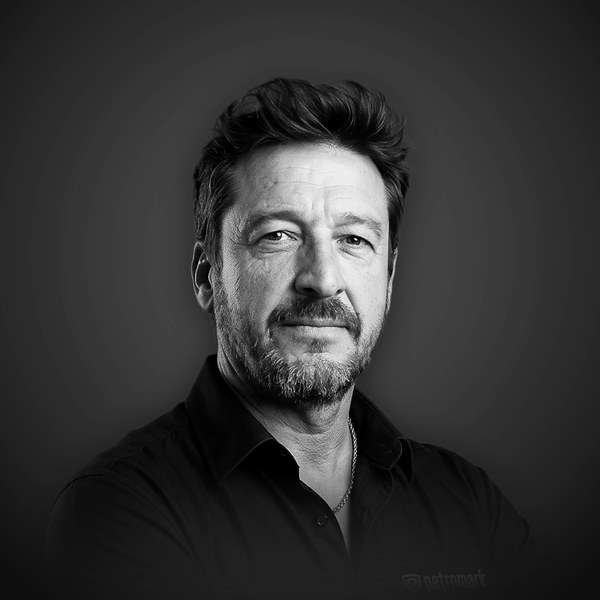
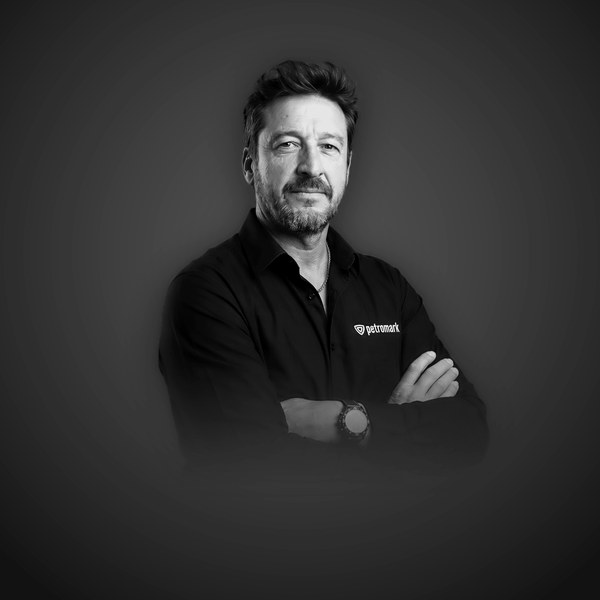
Fotos de Emilio Canullo y Gonzalo Gimenez en plano medio
fotos.py: encuadre global más abierto (ZOOM 6.0), sin ajustes por persona.

Changed region(s): [[0.12, 0.09, 0.84, 0.9]]

diff --git a/fotos.py b/fotos.py
@@ -19,13 +19,10 @@ RAIZ = Path(__file__).parent
 ORIGINALES = RAIZ / "fotos_originales"
 EDITADAS = RAIZ / "fotos_editadas"      # fotos ya retocadas (ChatGPT): tienen prioridad
 LADO = 600                      # px del cuadrado final
-HEADROOM = 0.13                 # aire sobre la cabeza, fracción del lado
-ZOOM = 3.2                      # lado del recorte = ZOOM × ancho de la cara
+HEADROOM = 0.10                 # aire sobre la cabeza, fracción del lado
+ZOOM = 6.0                      # lado del recorte = ZOOM × ancho de la cara
 ESPEJO = set()                     # personas cuya foto se voltea horizontalmente
-ZOOM_POR_SLUG = {                 # ajustes puntuales aprobados por el usuario (más alto = más lejos)
-    "ggimenez": 4.6,
-    "rparra": 3.7,
-}
+ZOOM_POR_SLUG = {}
 FONDO_CENTRO = (0x4a, 0x4a, 0x4d)
 FONDO_BORDE = (0x14, 0x12, 0x10)
 
